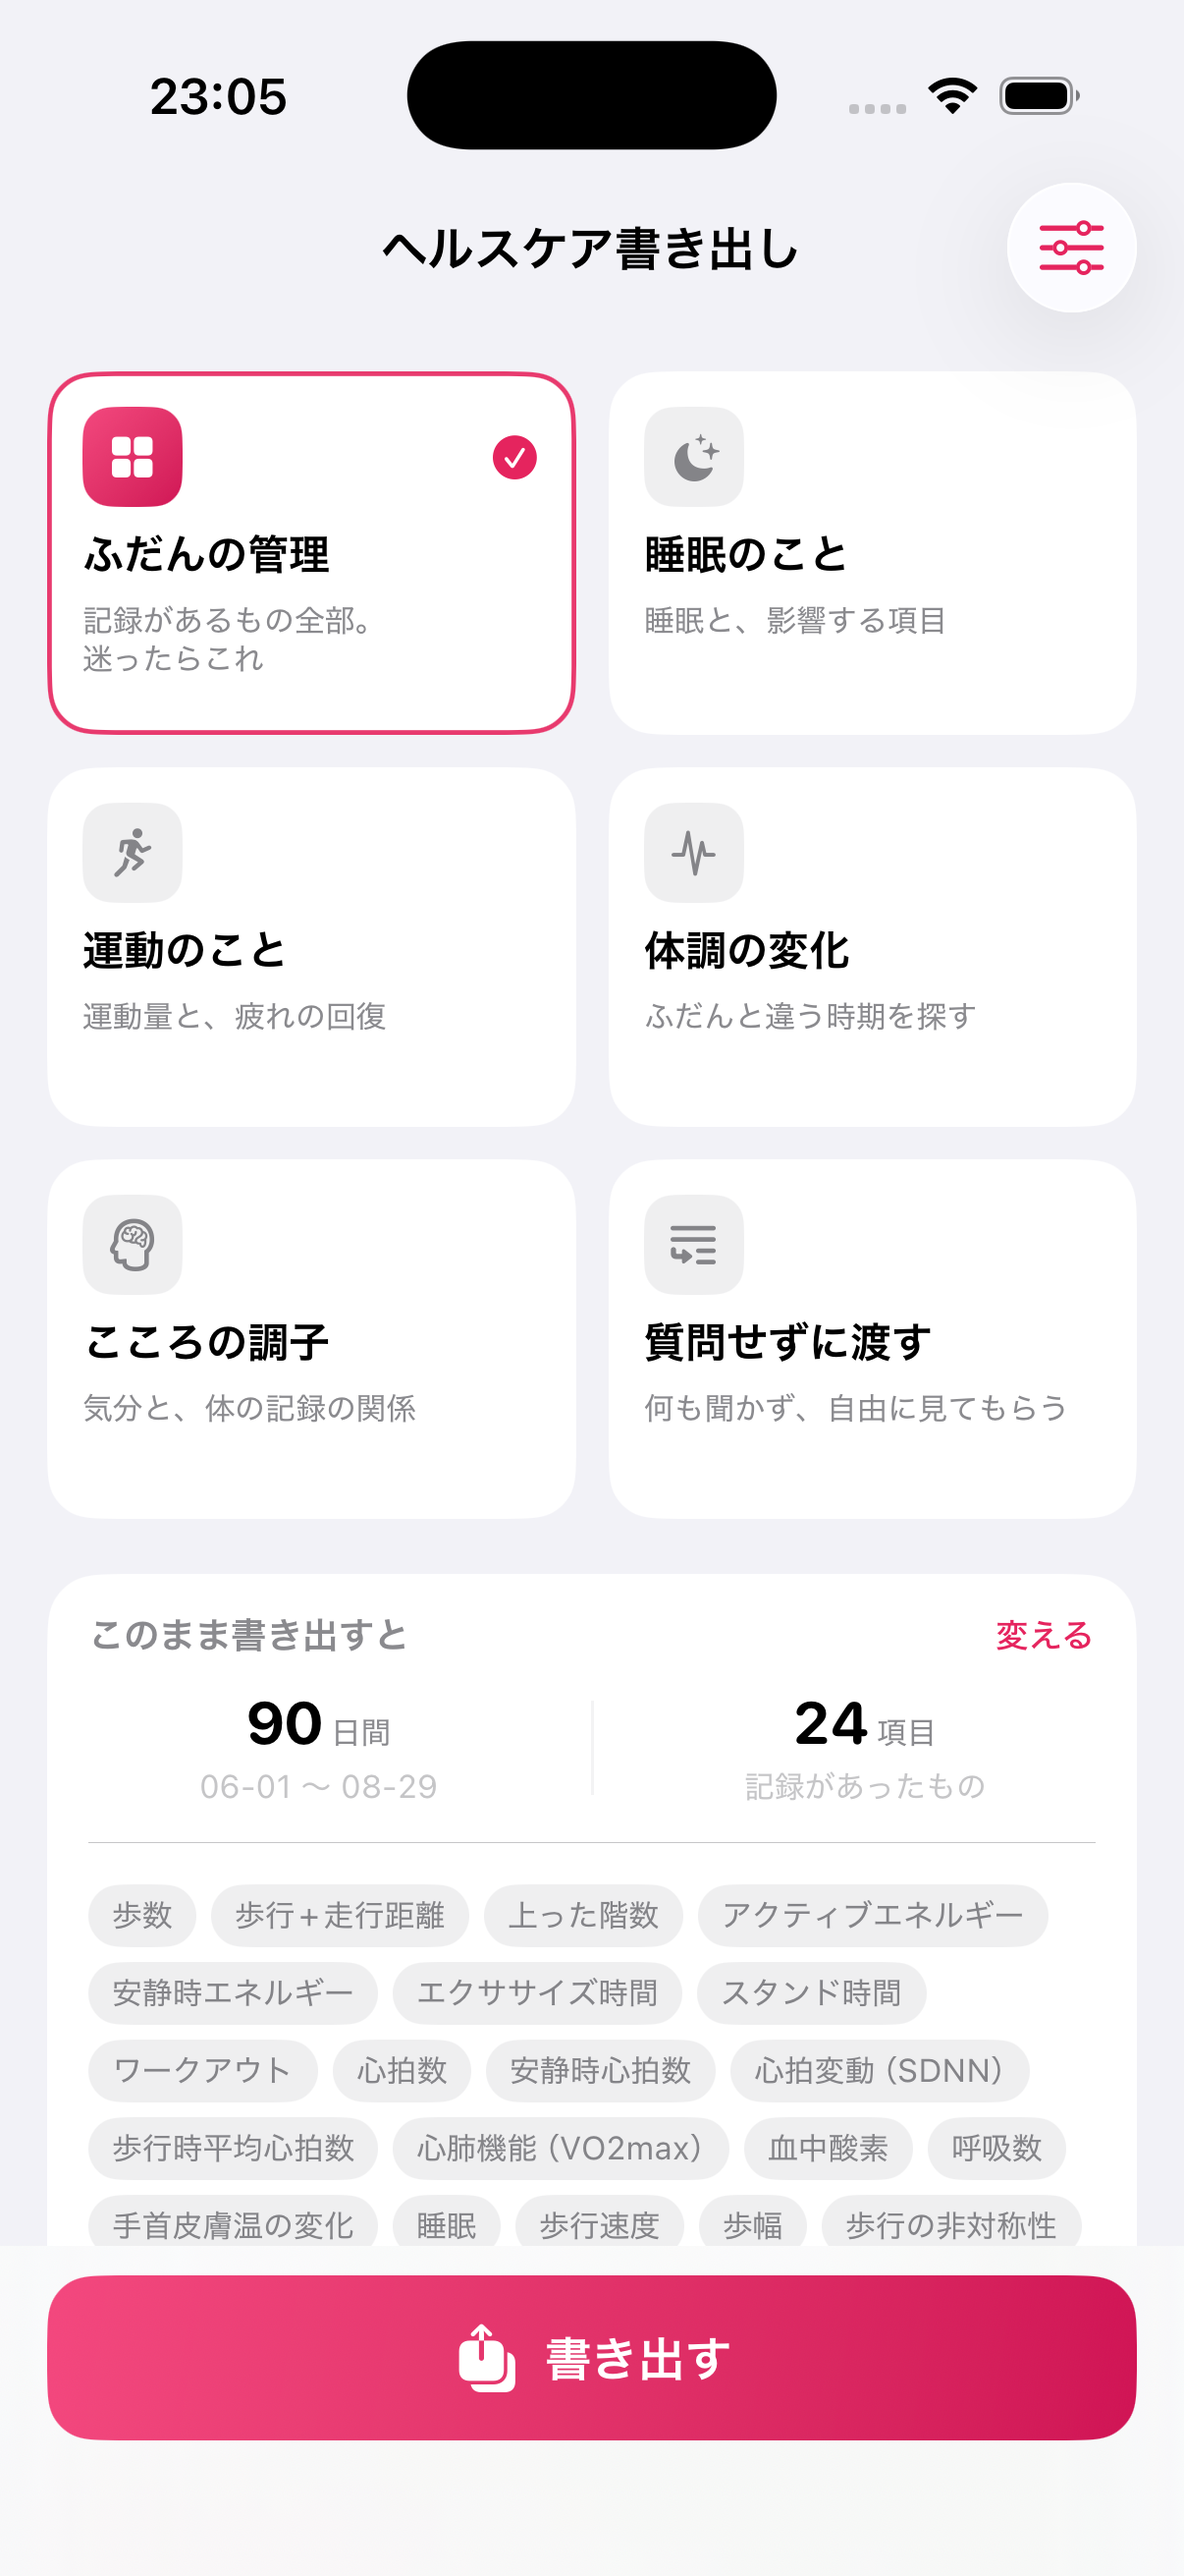
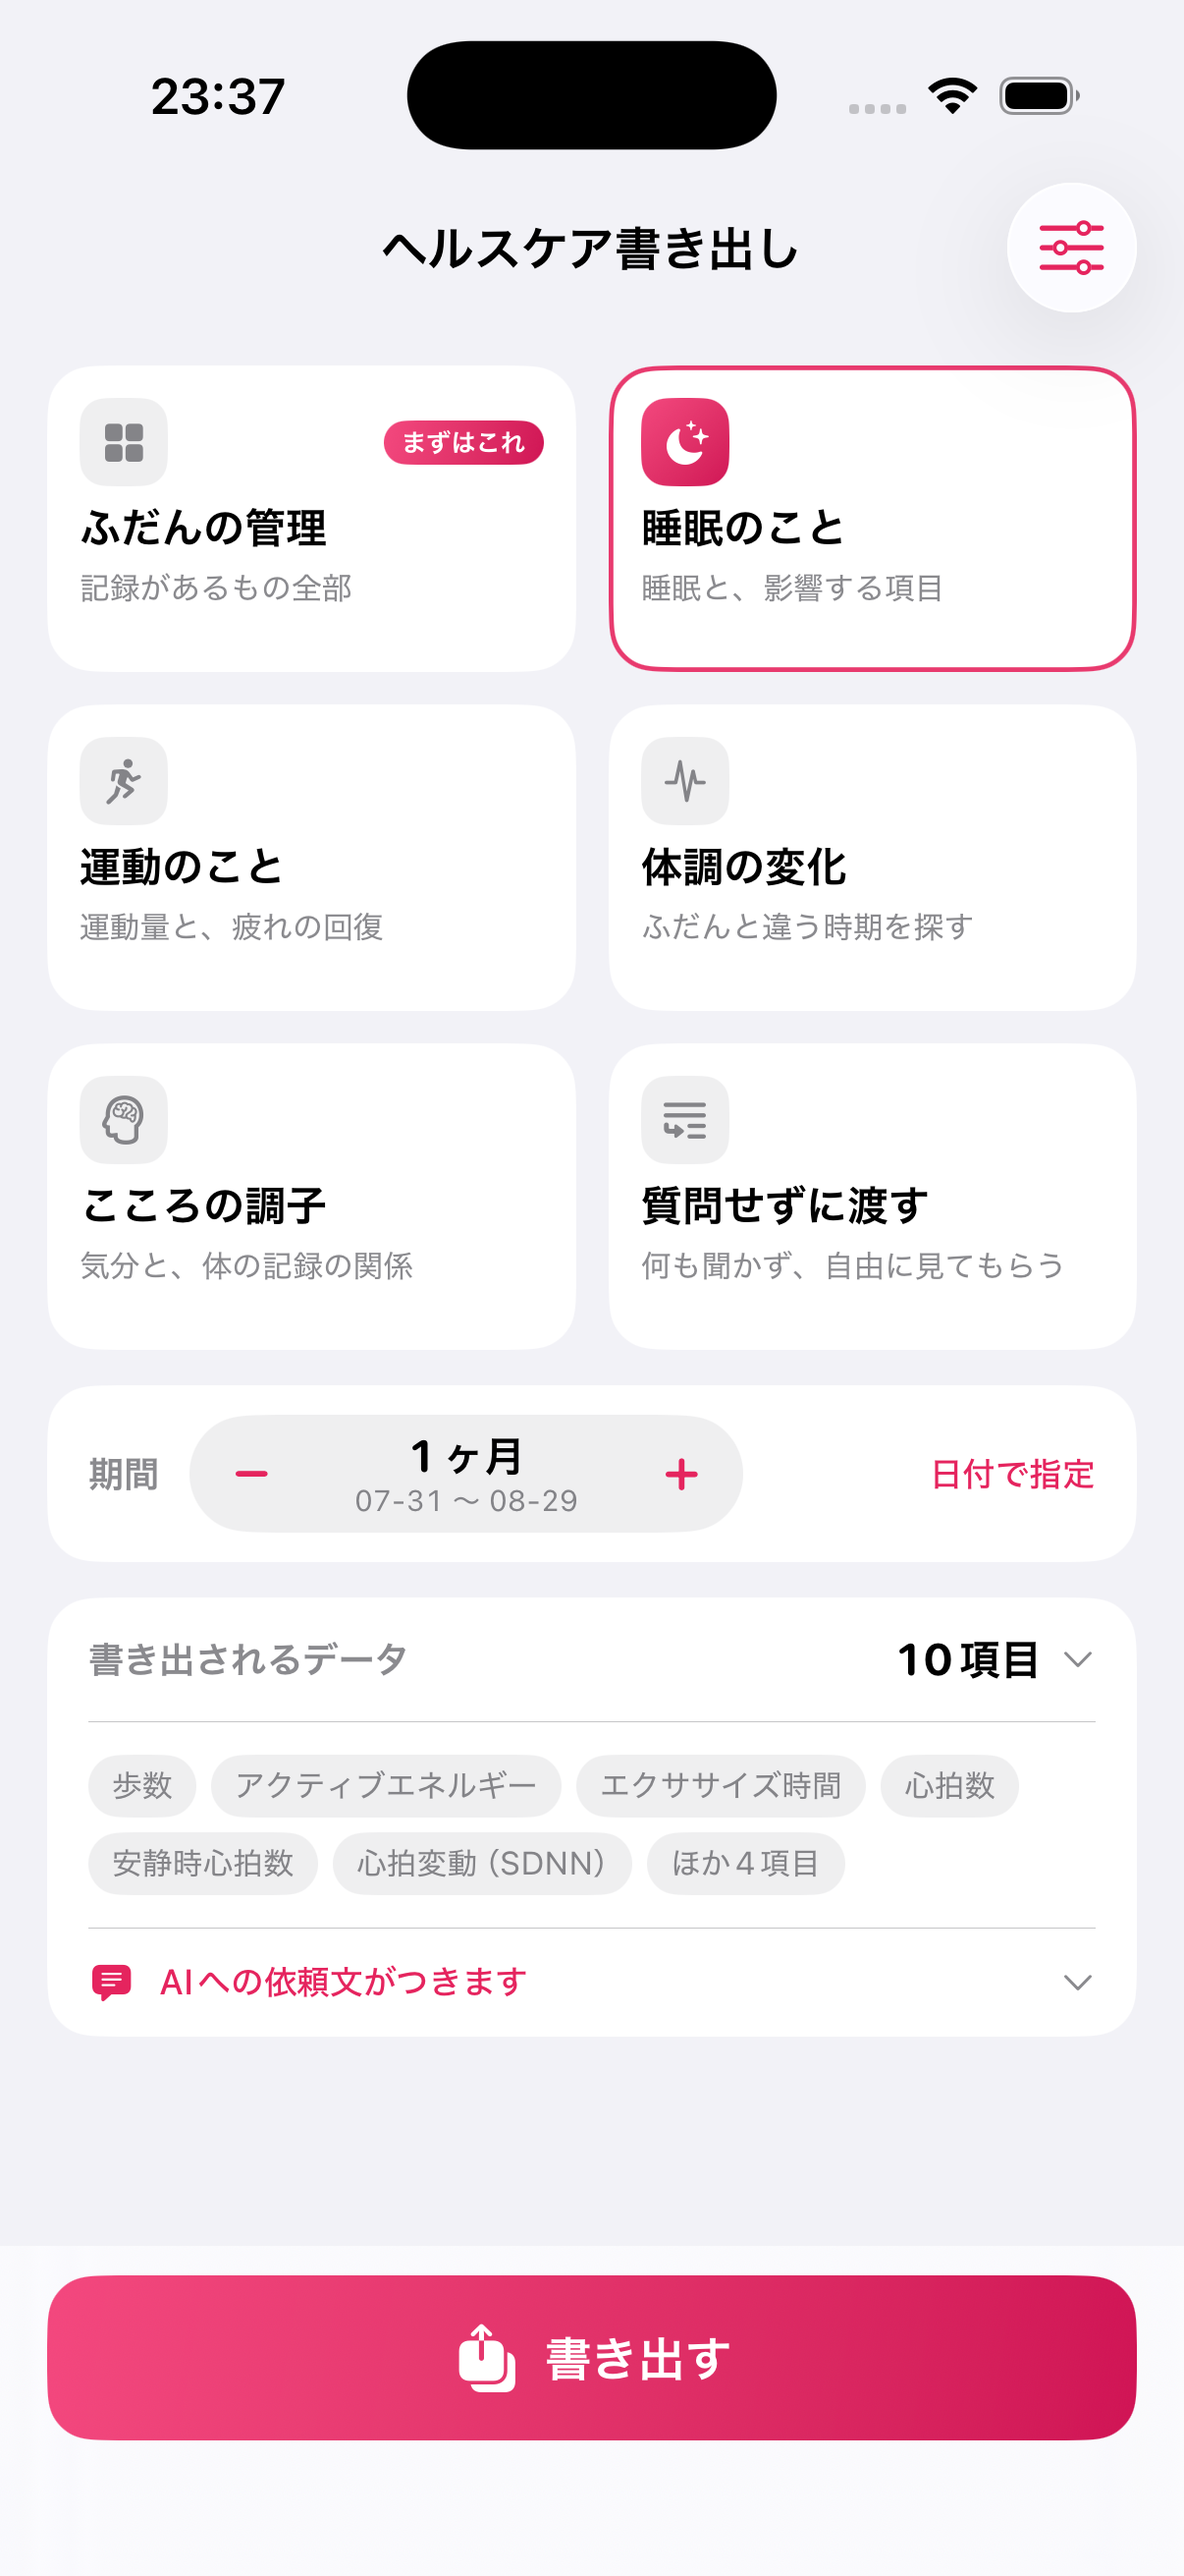
右上の設定ボタンを外す
詳しい設定へは、使う場所のそばから入れるようにした。
期間は期間の行の「日付で指定」から、項目と形式は
「書き出されるデータ」を開いたところの「項目や形式を変える」から。

いつも見えている必要のないものを右上に置いておくと、
毎回そこに目が行くわりに、ほとんど押されない。

diff --git a/HealthExport/HealthExport/ContentView.swift b/HealthExport/HealthExport/ContentView.swift
@@ -45,18 +45,6 @@ struct ContentView: View {
             .background(Color(.systemGroupedBackground))
             .navigationTitle("ヘルスケア書き出し")
             .navigationBarTitleDisplayMode(.inline)
-            .toolbar {
-                ToolbarItem(placement: .topBarTrailing) {
-                    Button {
-                        settingsTab = .metrics
-                        showingSettings = true
-                    } label: {
-                        Image(systemName: "slider.horizontal.3")
-                    }
-                    .accessibilityIdentifier("settingsButton")
-                    .accessibilityLabel("詳しい設定")
-                }
-            }
             .safeAreaInset(edge: .bottom) { exportBar }
             .sheet(isPresented: $showingResult) { ResultSheet(model: model) }
             .sheet(isPresented: $showingSettings) { SettingsSheet(model: model, initialTab: settingsTab) }
@@ -196,6 +184,26 @@ struct ContentView: View {
                 }
                 .padding(.horizontal, 14)
                 .padding(.vertical, 11)
+
+                if detailExpanded {
+                    Button {
+                        settingsTab = .metrics
+                        showingSettings = true
+                    } label: {
+                        HStack(spacing: 4) {
+                            Text("項目や形式を変える")
+                            Image(systemName: "chevron.right").font(.caption2)
+                        }
+                        .font(.caption.weight(.medium))
+                        .frame(maxWidth: .infinity, alignment: .leading)
+                        .padding(.horizontal, 14)
+                        .padding(.bottom, 12)
+                        .contentShape(Rectangle())
+                    }
+                    .buttonStyle(.plain)
+                    .foregroundStyle(Palette.accent)
+                    .accessibilityIdentifier("settingsButton")
+                }
             }
 
             Divider().padding(.horizontal, 14)
